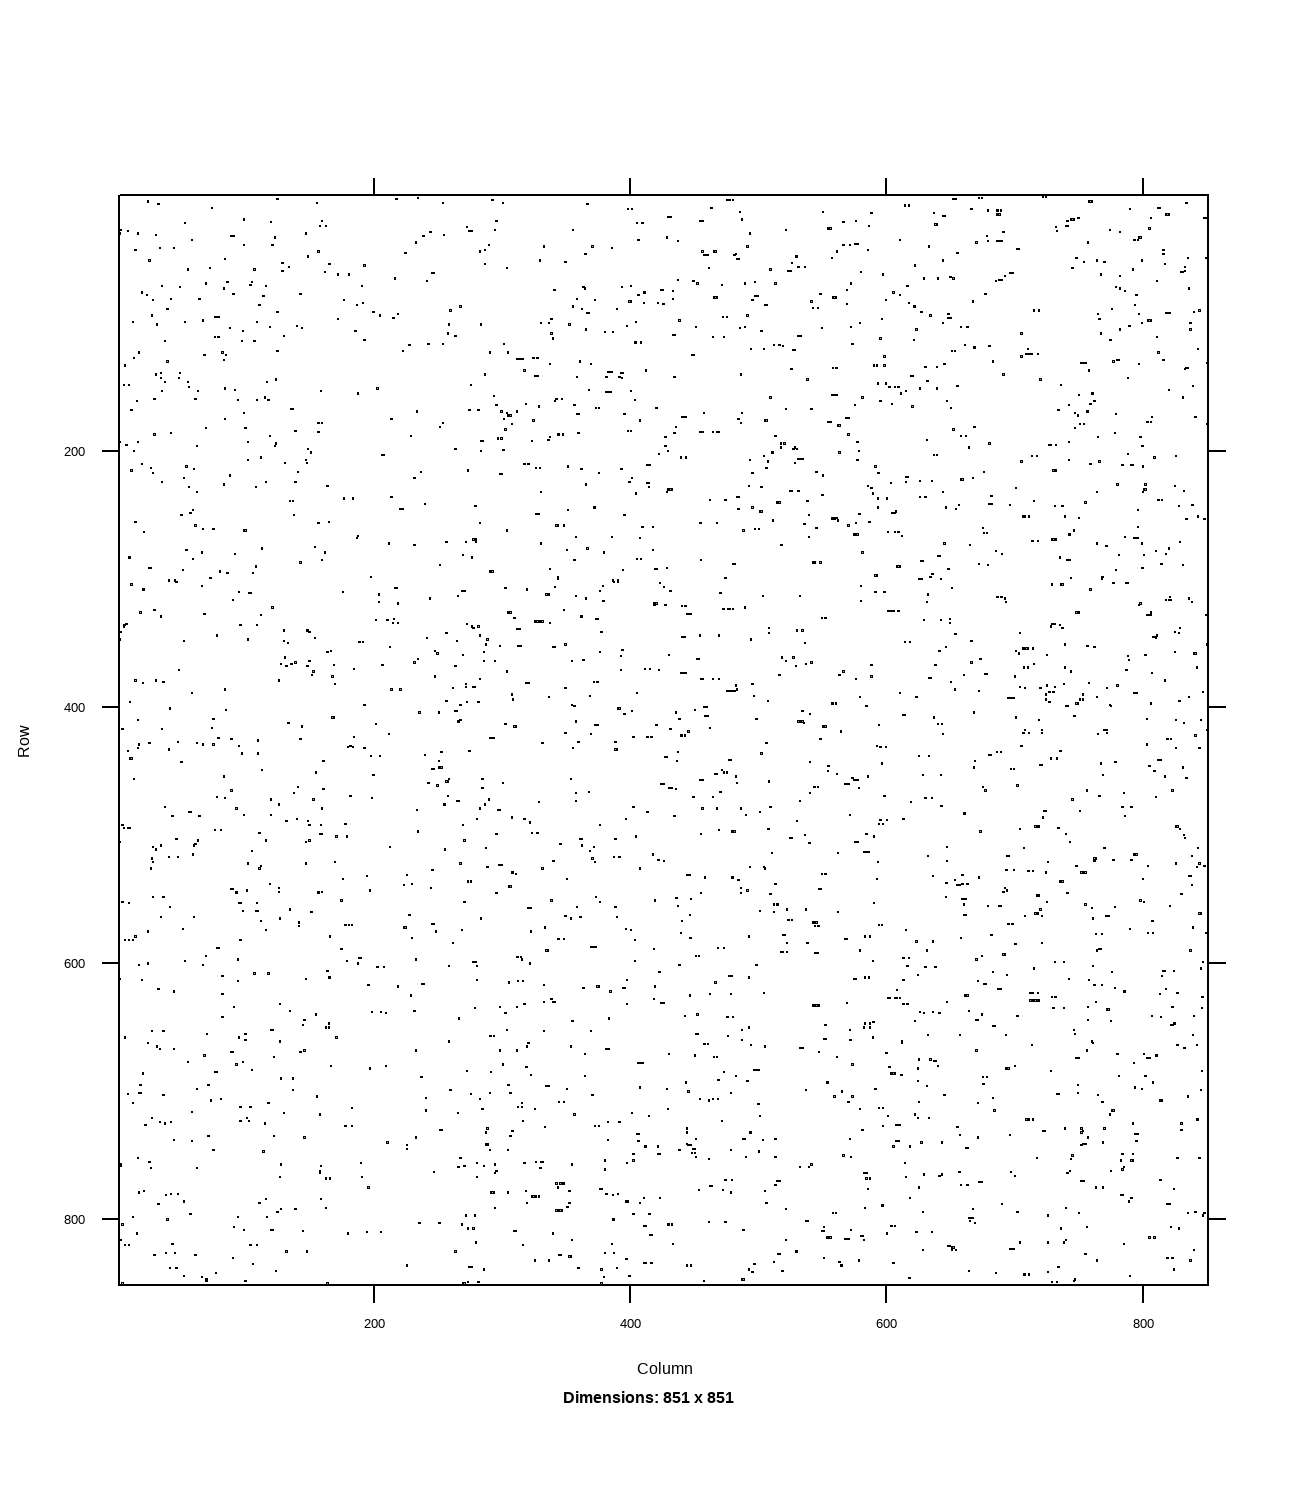
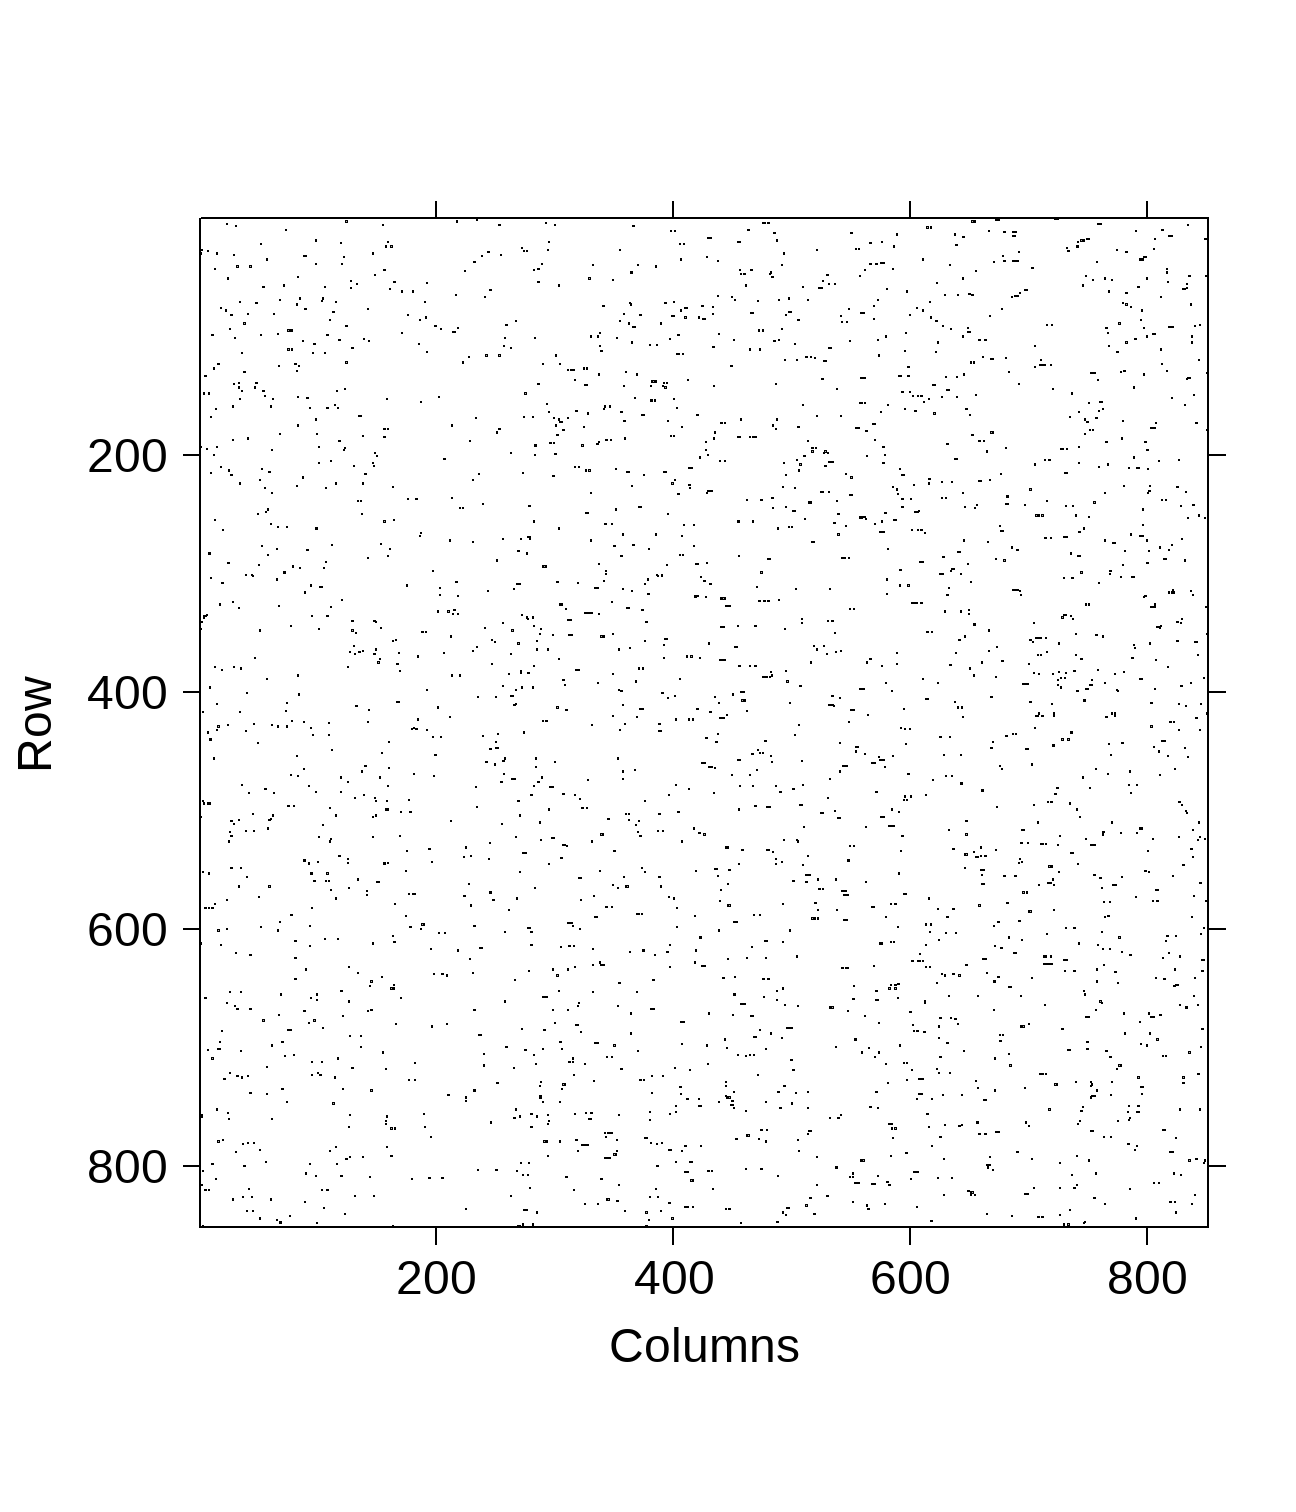
update axis labels cex

diff --git a/slides.html b/slides.html
@@ -1048,7 +1048,13 @@ net_line_graph &lt;- make_line_graph(net)
 first_order_binary_adjacency &lt;- net_line_graph %&gt;%  
   as_adjacency_matrix()  
 
-*image(first_order_binary_adjacency[sample(1:851), ])
+*image(
+* first_order_binary_adjacency[sample(1:851), ],
+* xlab = list(label = "Columns", cex = 3),
+* ylab = list(label = "Row", cex = 3),
+* scales = list(cex = 3),
+* sub = ""
+* )
 ```
 ]
  
@@ -1129,7 +1135,13 @@ second_order_binary_adjacency &lt;- ego2_net %&gt;%
   graph_from_adj_list() %&gt;%  
   as_adjacency_matrix()  
 
-*image(second_order_binary_adjacency[sample(1:851), ])
+*image(
+* second_order_binary_adjacency[sample(1:851), ],
+* xlab = list(label = "Columns", cex = 3),
+* ylab = list(label = "Row", cex = 3),
+* scales = list(cex = 3),
+* sub = ""
+* )
 ```
 ]
  
